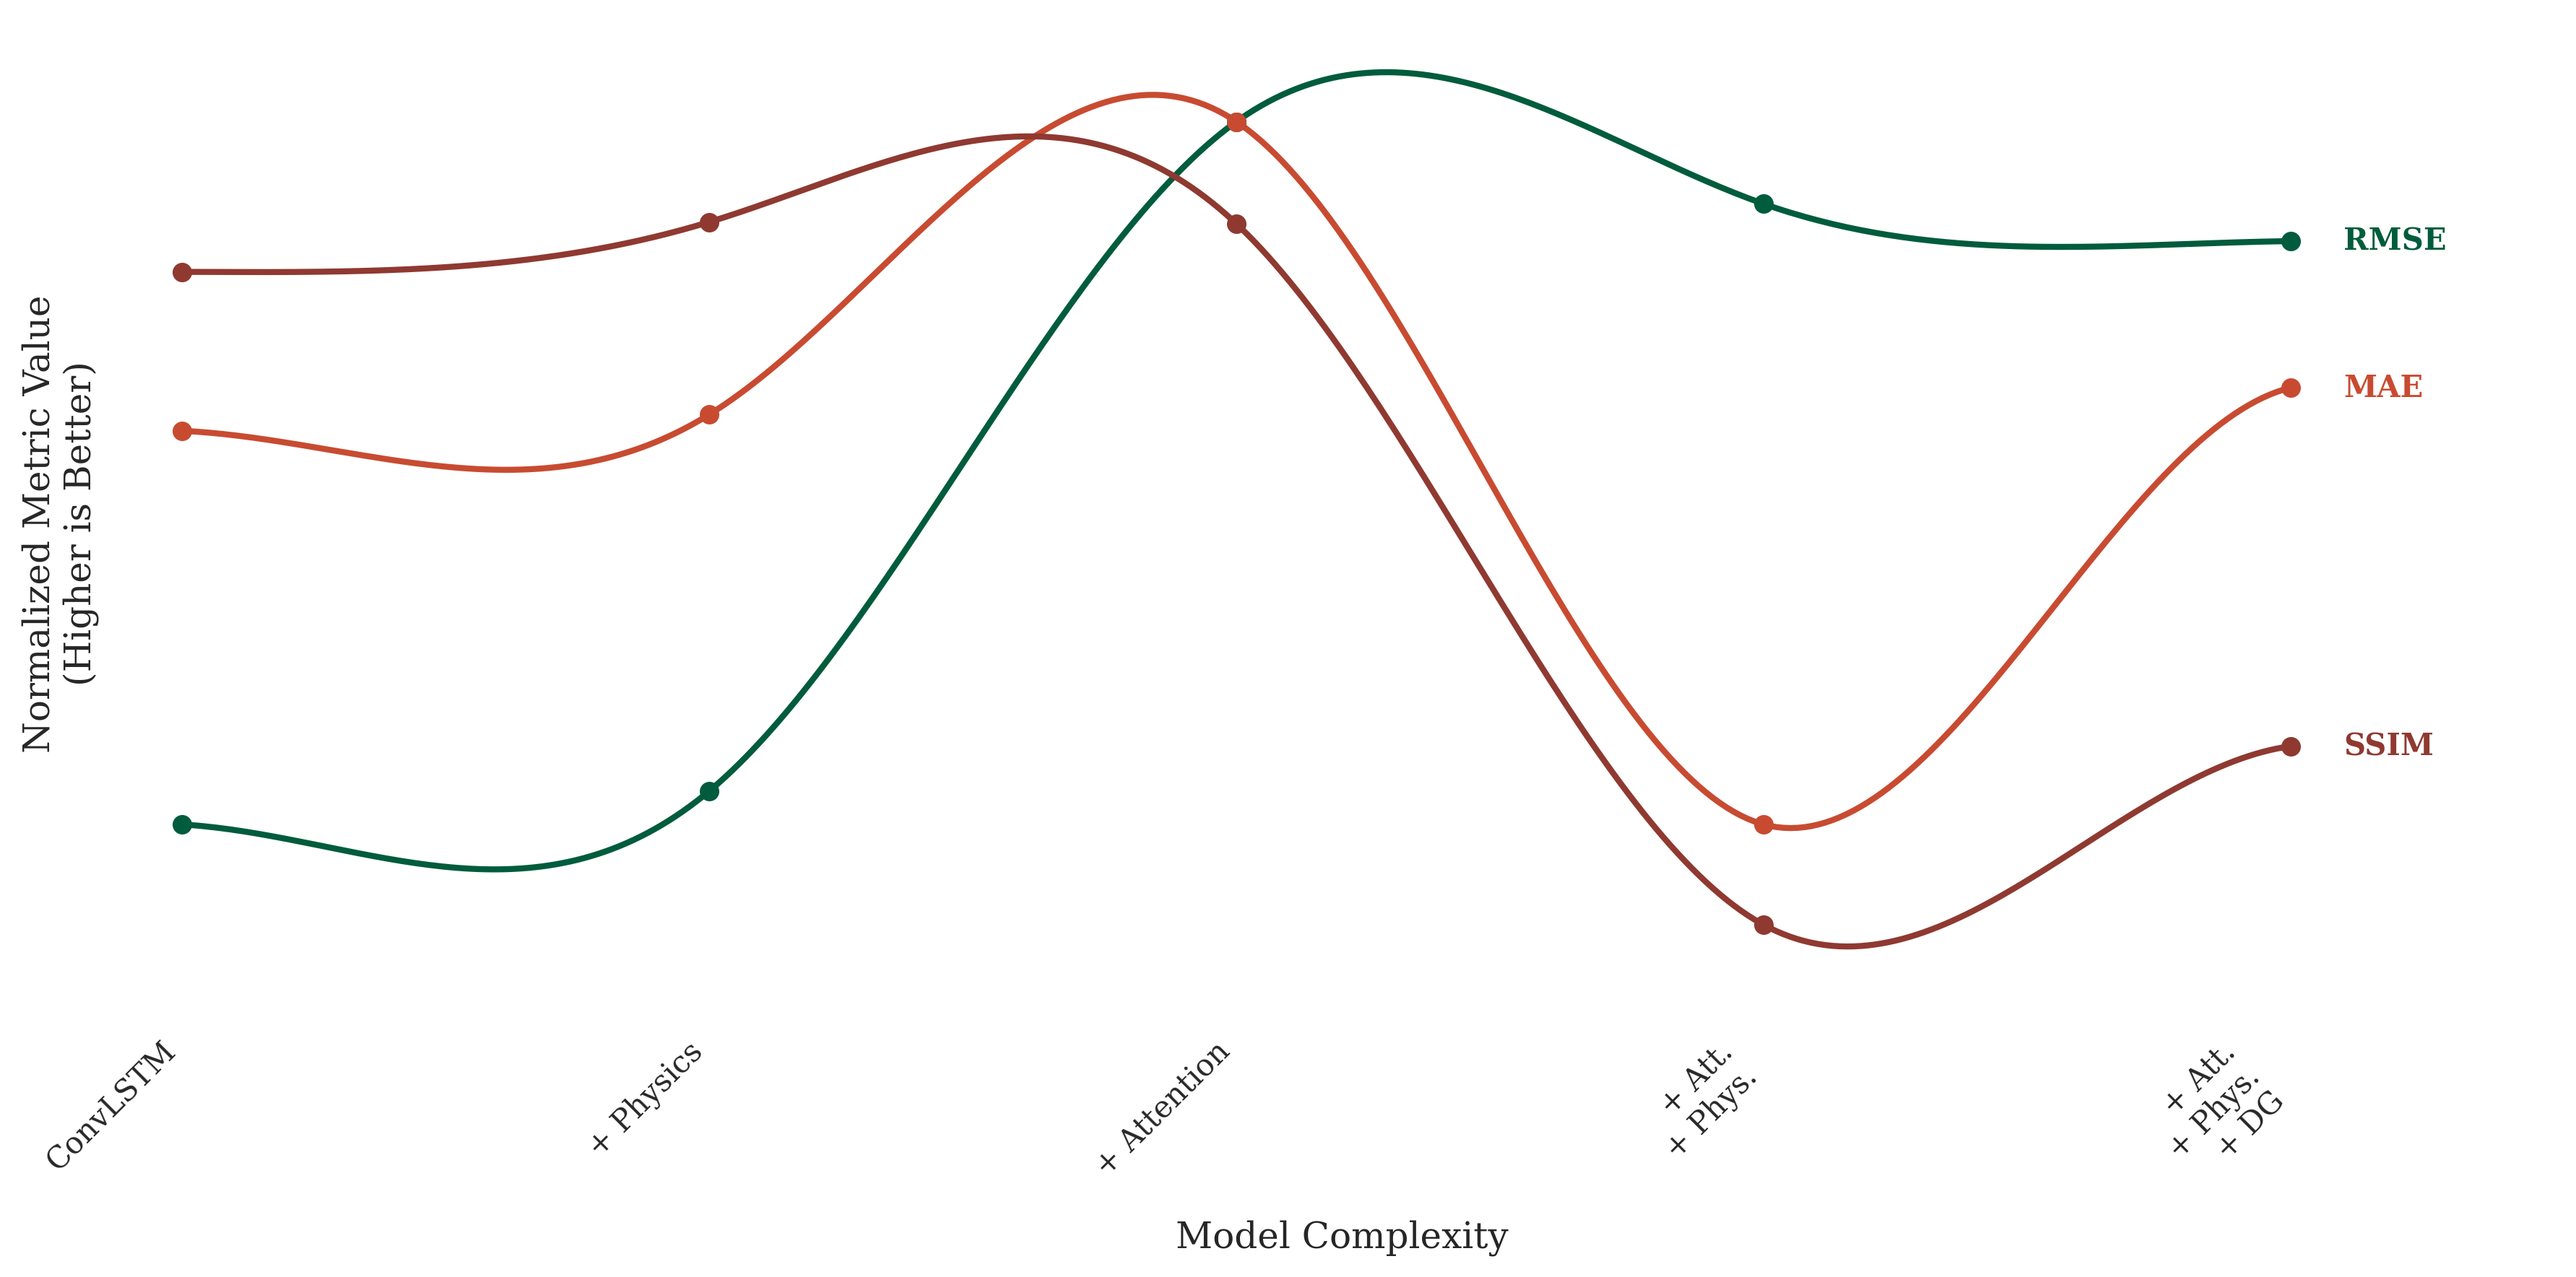
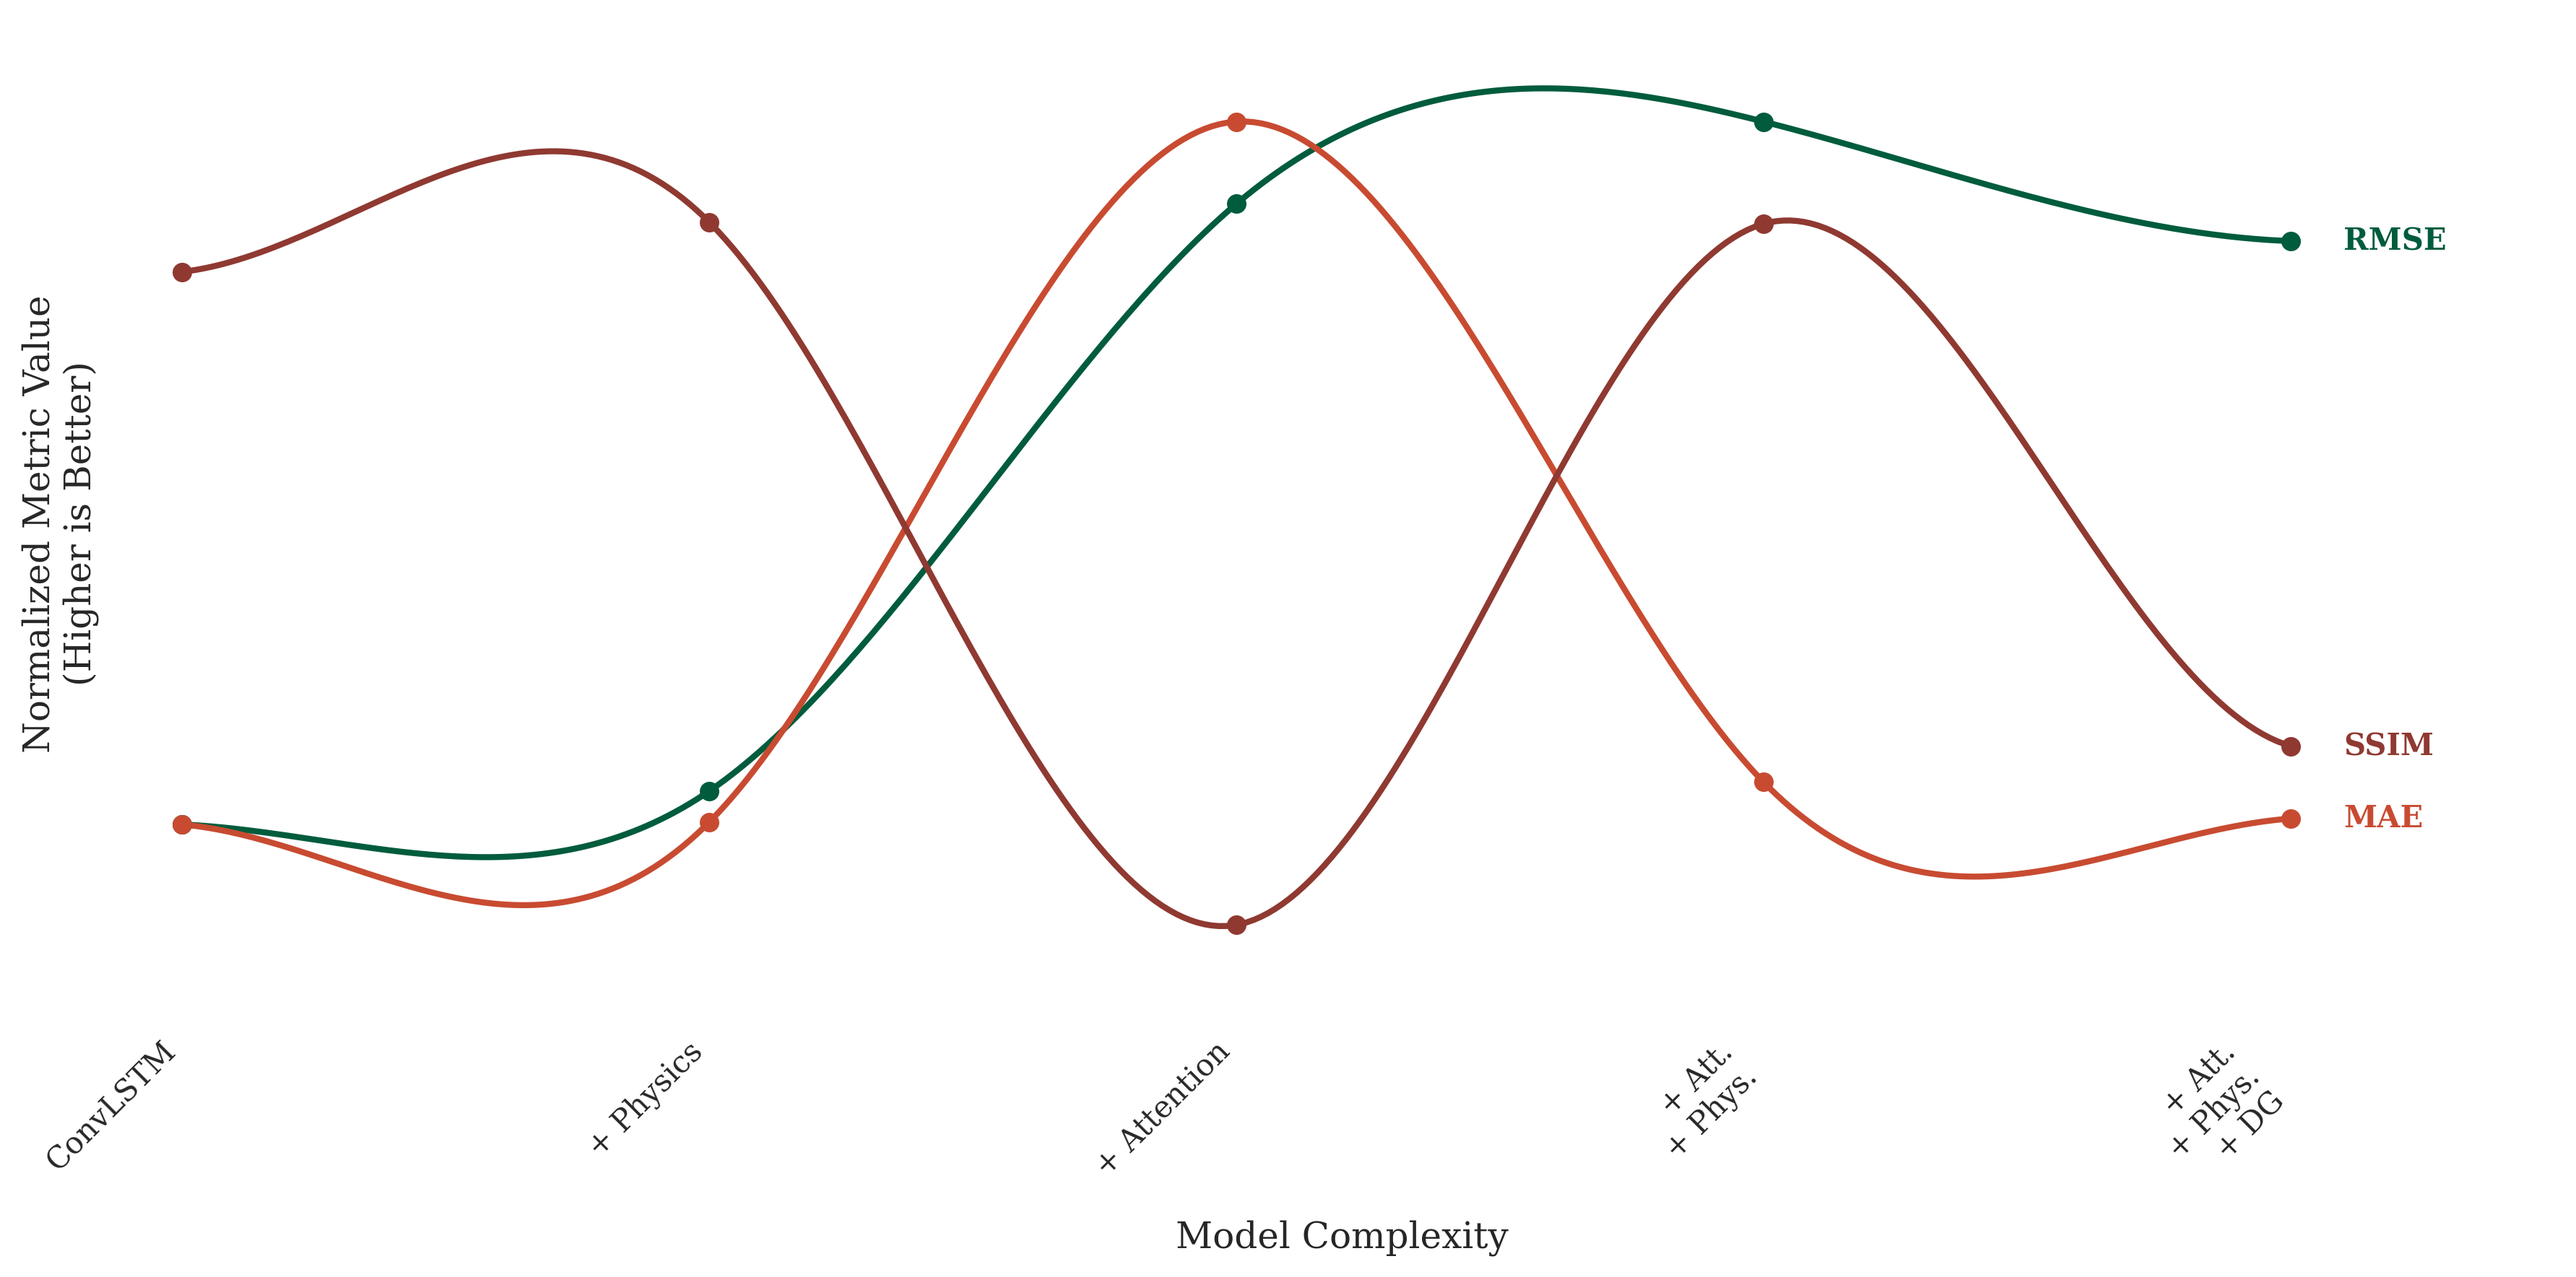
.

diff --git a/plot_scatter.py b/plot_scatter.py
@@ -62,9 +62,9 @@ plt.rcParams['font.serif'] = ['Times New Roman'] + plt.rcParams['font.serif']
 
 # Data
 techniques = ['ConvLSTM', '+ Physics', '+ Attention', '+ Att.\n+ Phys.', '+ Att.\n+ Phys.\n+ DG']
-rmse = [947.81, 940.92, 802.32, 819.34, 827.05]
-mae = [12993.75, 12957.13, 12294.87, 13883.73, 12896.12]
-ssim = [0.6190, 0.6219, 0.6218, 0.5810, 0.5914]
+rmse = [947.81, 940.92, 819.34, 802.32, 827.05]
+mae = [12993.75, 12957.13, 1383.73, 12294.87, 12896.12]
+ssim = [0.6190, 0.6219, 0.5810, 0.6218, 0.5914]
 
 # Normalize the data to 0.1-0.8 range
 def normalize(data):
